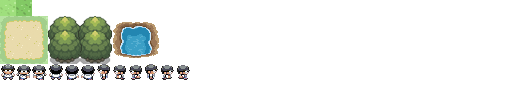
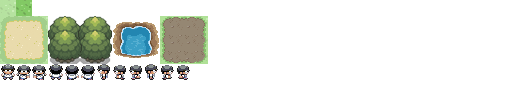
Last push with CraftyJS API, switching to Phaser for better functionality

Changed region(s): [[0.3125, 0.1562, 0.4062, 0.6875], [0.0, 0.0, 0.0312, 0.1875]]

diff --git a/InhabitableGame.js b/InhabitableGame.js
@@ -3,11 +3,10 @@ var naturalWorldMap = [];
 function objectWithinRange(x, y, range) {
 
   for (var i = x - range; i < x + range; i++) {
-
-    if (naturalWorldMap[i] !== 'undefined') {
+    if (naturalWorldMap[i] != null) {
       for (var j = y - range; j < y + range; j++) {
         if (naturalWorldMap[i] != null && naturalWorldMap[i][j] != null) {
-            return true;
+          return true;
         }
       }
     }
@@ -27,8 +26,9 @@ window.onload = function() {
     grass1: [0,0],
     grass2: [1,0],
     player: [0,4],
-    forest: [3, 1, 4, 3],
-    waterpool: [7, 1, 3, 3]
+    forest: [3, 1, 4, 3], //produce wood
+    waterpool: [7, 1, 3, 3], //produce water
+    drypatch: [10, 1, 3, 3] // produce sand
   });
 
   //method to randomy generate the map
@@ -37,14 +37,14 @@ window.onload = function() {
 
     for(var i = 0; i < 2048 / 16; i++) {
       for(var j = 0; j < 2048 / 16; j++) {
-        grassType = ((i % 2 === 0 && j % 2 === 0) || (i % 2 !== 0 && j % 2 !== 0)) ? 1 : 2;
+        grassType = 1; //((i % 2 === 0 && j % 2 === 0) || (i % 2 !== 0 && j % 2 !== 0)) ? 1 : 2;
         Crafty.e("2D, Canvas, grass"+grassType)
         .attr({x: i * 16, y: j * 16});
 
         //1 : 50 chance of create a forest at the current location
-        if(i > 0 && i < 2048/16 && j > 0 && j < 2048/16 && Crafty.randRange(0, 50) > 49 && !objectWithinRange(i, j, 4)) {
+        if(i > 0 && i < 2032/16 && j > 0 && j < 2032/16 && Crafty.randRange(0, 50) > 49 && !objectWithinRange(i, j, 4)) {
           Crafty.e("2D, DOM, forest")
-          .attr({x: i * 16, y: j * 16, z});
+          .attr({x: i * 16, y: j * 16, z: z});
           z++;
 
           naturalWorldMap[i] = [];
@@ -57,10 +57,38 @@ window.onload = function() {
         }
 
         //1 : 10 change of a waterpool at the current location
+        if(i > 0 && i < 2032/16 && j > 0 && j < 2032/16 && Crafty.randRange(0, 95) > 94 && !objectWithinRange(i, j, 10)) {
+
+          Crafty.e("2D, DOM, waterpool")
+          .attr({ x: i * 16, y: j * 16 });
+
+          naturalWorldMap[i] = [];
+          naturalWorldMap[i][j] = {
+            type: 'lake',
+            product: Crafty.randRange(200, 800),
+            location: [i, j],
+            size: [48, 48]
+          }
+        }
+
+        //1 : 15 change of a drypatch at the current location
+        if(i > 0 && i < 2032/16 && j > 0 && j < 2032/16 && Crafty.randRange(0, 95) > 94 && !objectWithinRange(i, j, 10)) {
+
+          Crafty.e("2D, DOM, wall_top, drypatch")
+          .attr({ x: i * 16, y: j * 16 });
+
+          naturalWorldMap[i] = [];
+          naturalWorldMap[i][j] = {
+            type: 'drypatch',
+            product: Crafty.randRange(75, 125),
+            location: [i, j],
+            size: [48, 48]
+          }
+        }
       }
     }
 
-    console.log(naturalWorldMap);
+    //console.log(naturalWorldMap);
     //create the bushes along the x-axis which will form the boundaries
     // for(var i = 0; i < 25; i++) {
     //   Crafty.e("2D, Canvas, wall_top, bush"+Crafty.randRange(1,2))
@@ -68,15 +96,15 @@ window.onload = function() {
     //   Crafty.e("2D, DOM, wall_bottom, bush"+Crafty.randRange(1,2))
     //   .attr({x: i * 16, y: 304, z: 2});
     // }
-
-    //create the bushes along the y-axis
-    //we need to start one more and one less to not overlap the previous bushes
-    //   for(var i = 1; i < 19; i++) {
-    //     Crafty.e("2D, DOM, wall_left, bush"+Crafty.randRange(1,2))
-    //     .attr({x: 0, y: i * 16, z: 2});
-    //     Crafty.e("2D, Canvas, wall_right, bush"+Crafty.randRange(1,2))
-    //     .attr({x: 384, y: i * 16, z: 2});
-    //   }
+    //
+    // //create the bushes along the y-axis
+    // //we need to start one more and one less to not overlap the previous bushes
+    // for(var i = 1; i < 19; i++) {
+    //   Crafty.e("2D, DOM, wall_left, bush"+Crafty.randRange(1,2))
+    //   .attr({x: 0, y: i * 16, z: 2});
+    //   Crafty.e("2D, Canvas, wall_right, bush"+Crafty.randRange(1,2))
+    //   .attr({x: 384, y: i * 16, z: 2});
+    // }
   }
 
   //the loading screen that will display while our assets load
@@ -115,16 +143,16 @@ window.onload = function() {
     })
     .collision()
     .onHit("wall_left", function() {
-      this.x += this._speed;
+      this.x = 0;//this._speed;
       this.stop();
     }).onHit("wall_right", function() {
-      this.x -= this._speed;
+      this.x = 0;//this._speed;
       this.stop();
     }).onHit("wall_bottom", function() {
-      this.y -= this._speed;
+      this.y = 0;//this._speed;
       this.stop();
     }).onHit("wall_top", function() {
-      this.y += this._speed;
+      this.y = 0;//this._speed;
       this.stop();
     })
     .fourway(.5);
